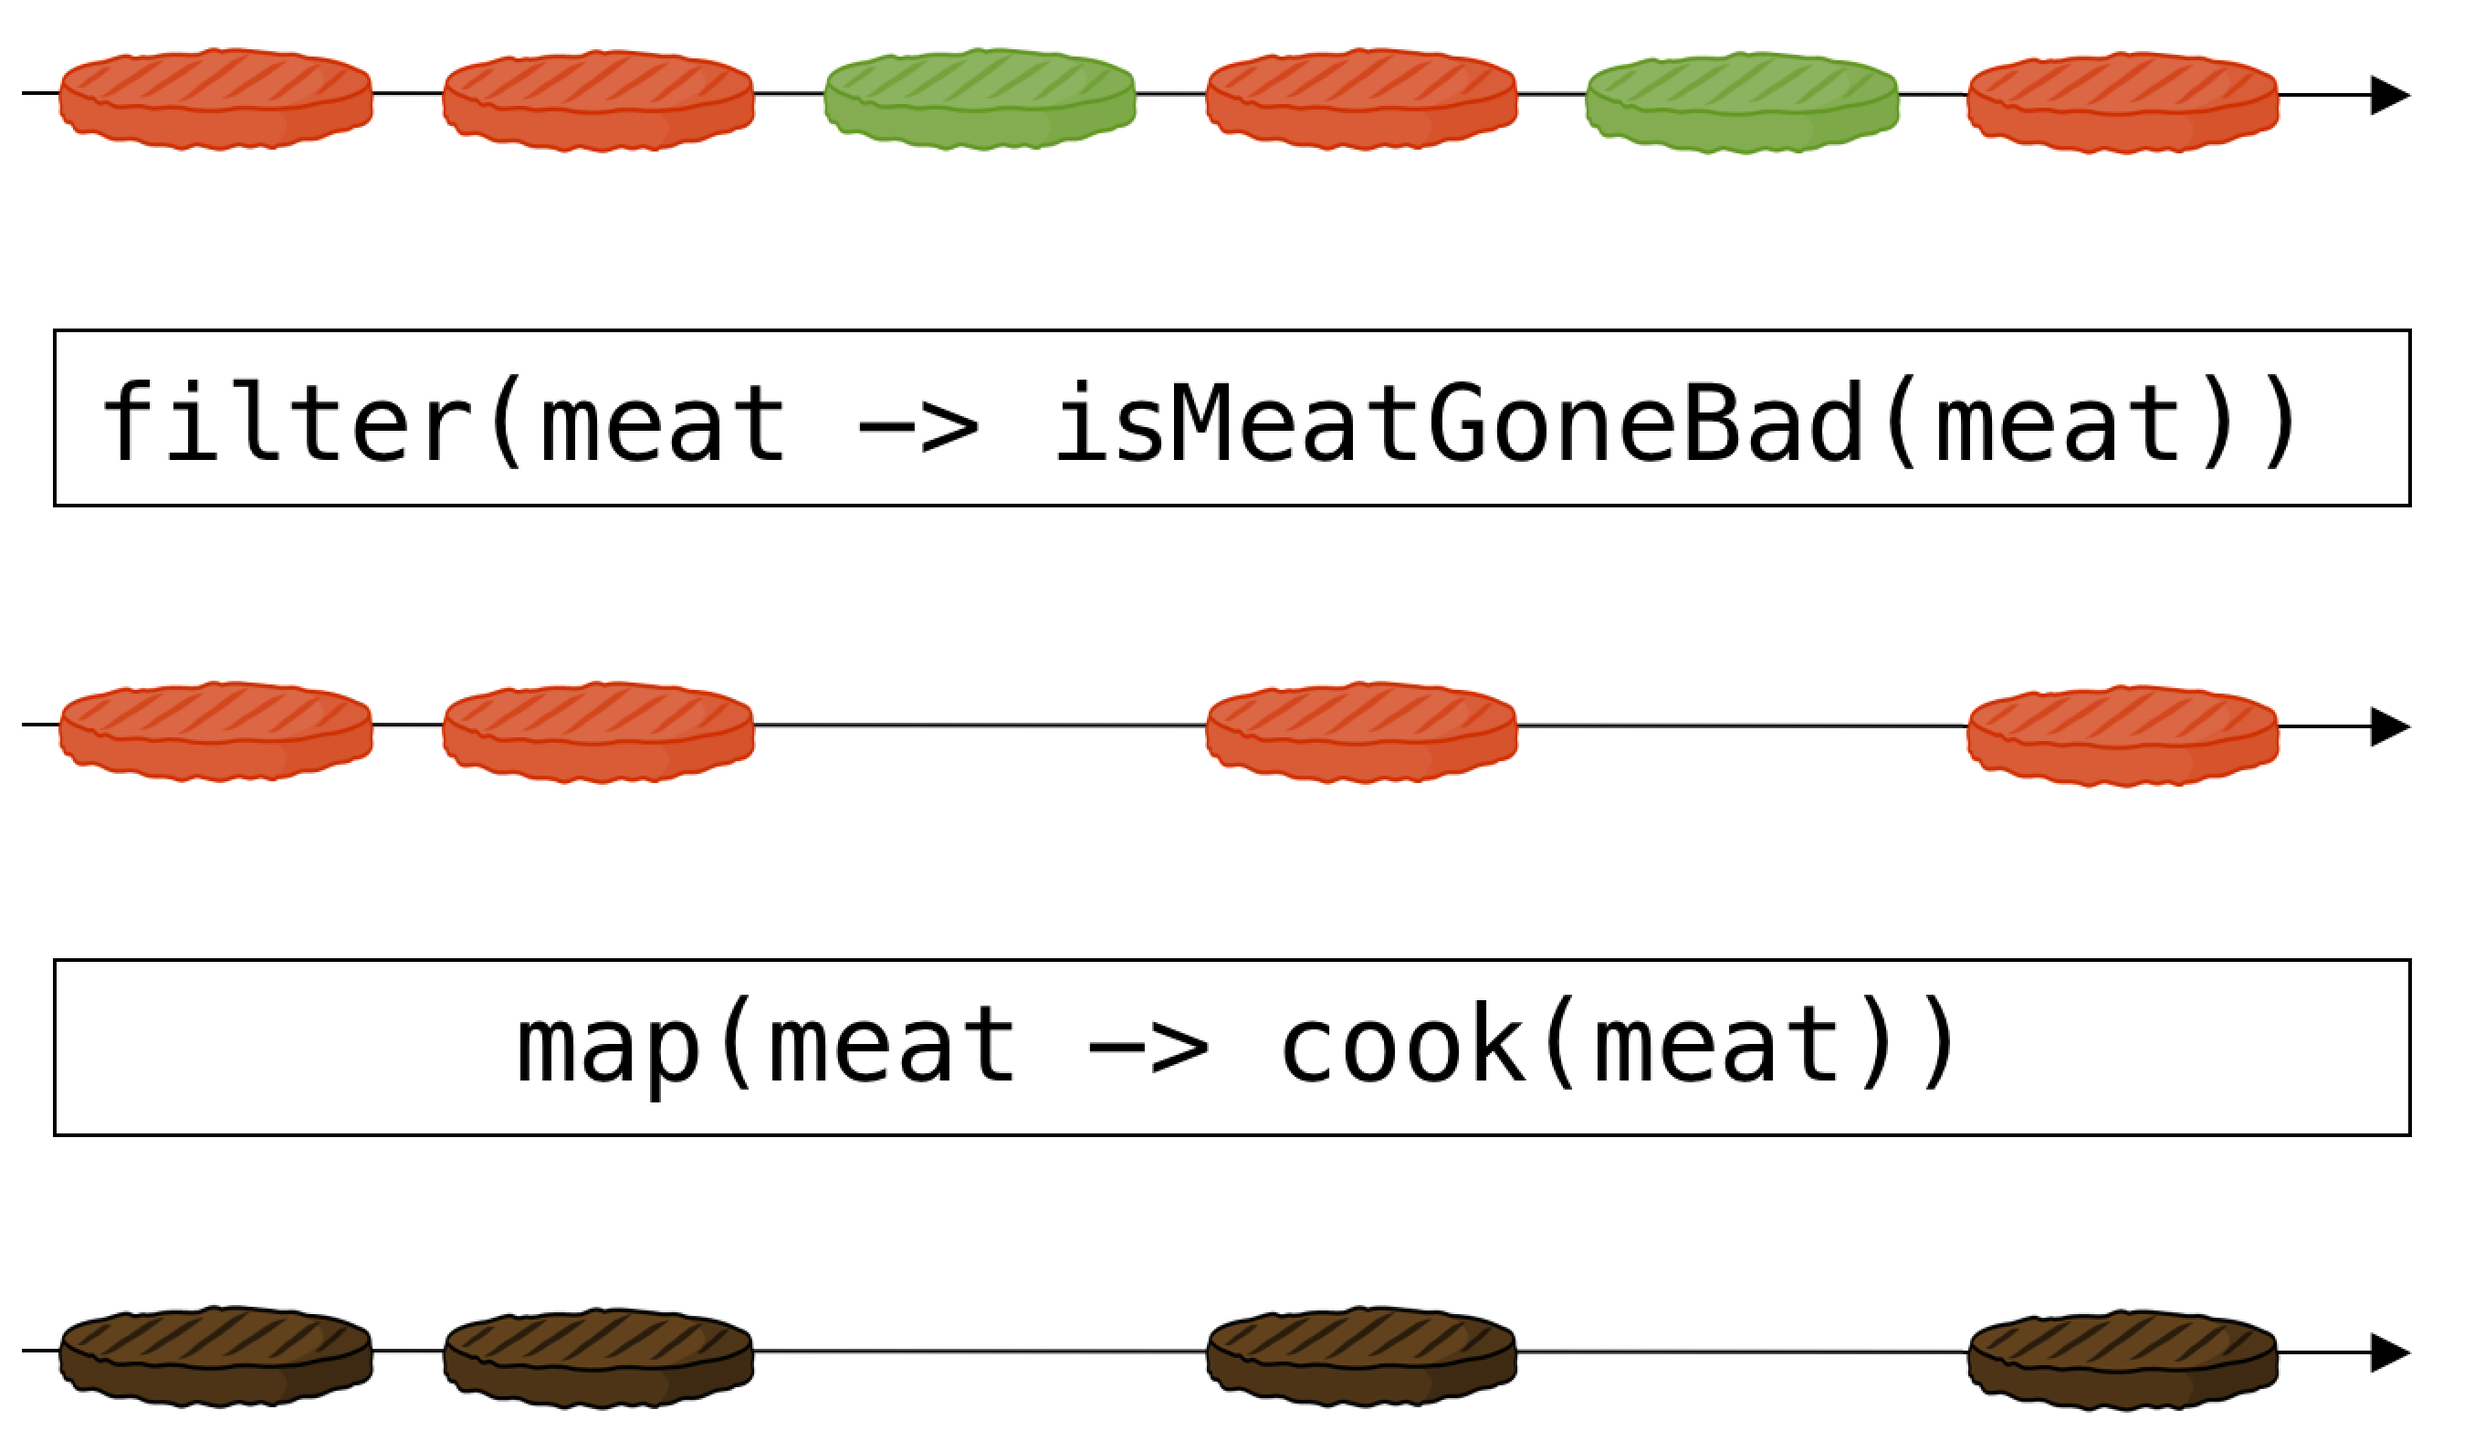
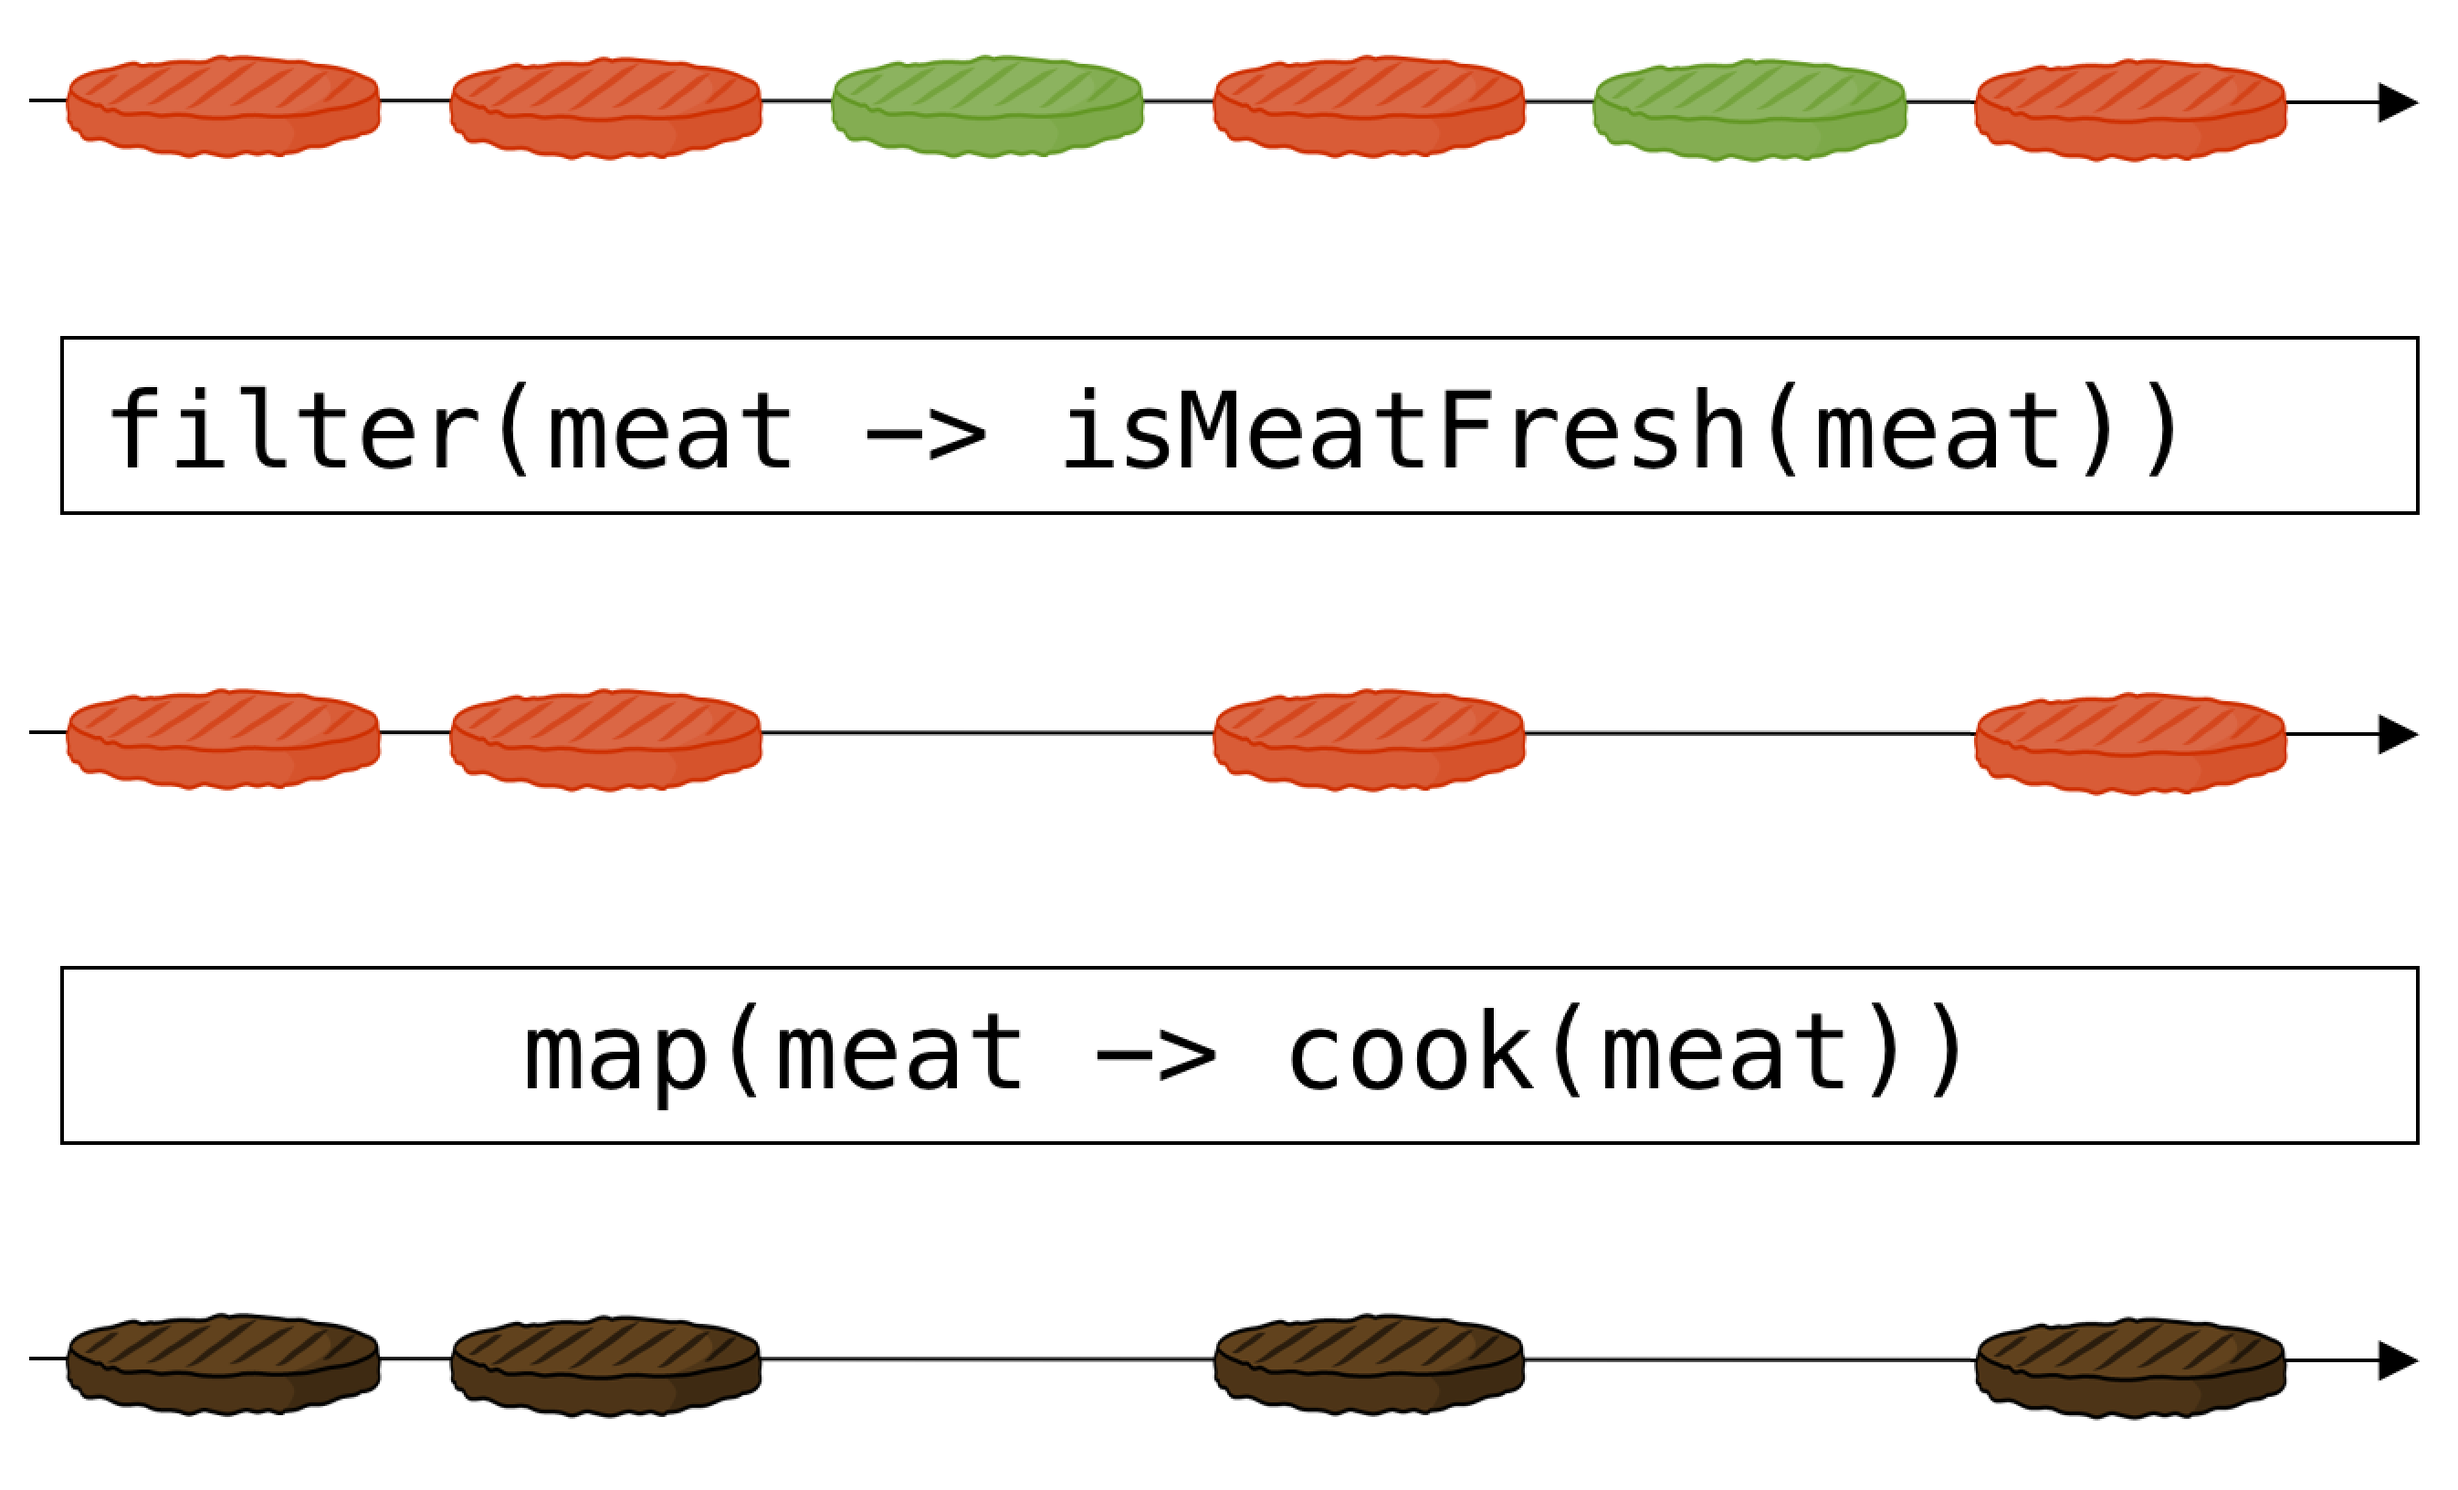
changed the filter

diff --git a/_posts/blog/2016-07-07-reactive_mindset_burgers.md b/_posts/blog/2016-07-07-reactive_mindset_burgers.md
@@ -75,7 +75,7 @@ When developing using ReactiveX you have to switch from a pull based approach to
 We don't have an exact set of data that we can operate on, but rather we operate on each emission of a stream. This means that if we want to work only on fresh meat, we cannot do:
 {% highlight java %}
 for(Meat meat: meatList){
-    if(isMeatGoneBad(meat)){
+    if(isMeatFresh(meat)){
         meatList.remove(meat);
     }
 }
@@ -84,7 +84,7 @@ for(Meat meat: meatList){
 because we don't have that ``meatList``. We have an ``Observable`` that emits meat pieces and from those, we are only interested in cooking the pieces that have not gone bad, the others need to be ``filter``ed out.
 {% highlight java %}
 Observable.from(meatSource)
-          .filter(meat -> isMeatGoneBad(meat))
+          .filter(meat -> isMeatFresh(meat))
 {% endhighlight %}
 
 Similar, when we want to cook the meat, we cannot just apply a function to a set of data, because we don't have that set of data.
@@ -97,7 +97,7 @@ for(Meat meat: meatList){
 But what we can do, is to apply a function to every emission of the filtered meat stream, by using the ``map`` operator.
 {% highlight java %}
 Observable.from(meatSource)
-          .filter(meat -> isMeatGoneBad(meat))
+          .filter(meat -> isMeatFresh(meat))
           .map(meat -> cook(meat));
 {% endhighlight %}
 
